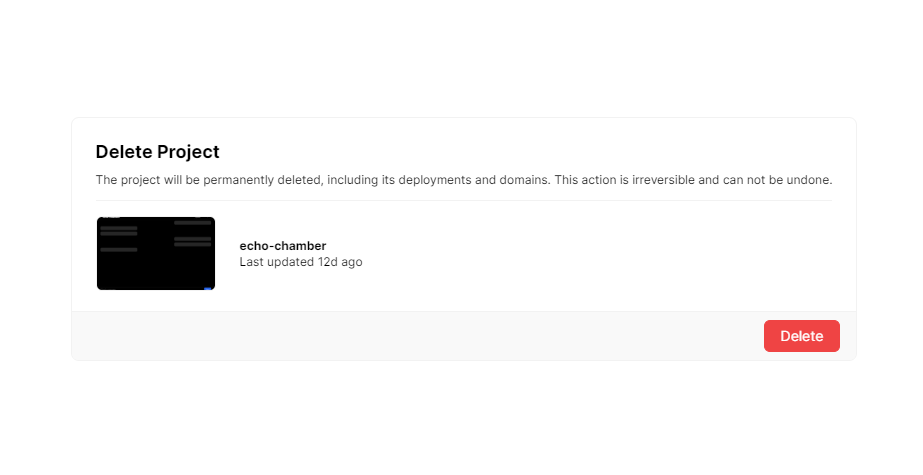
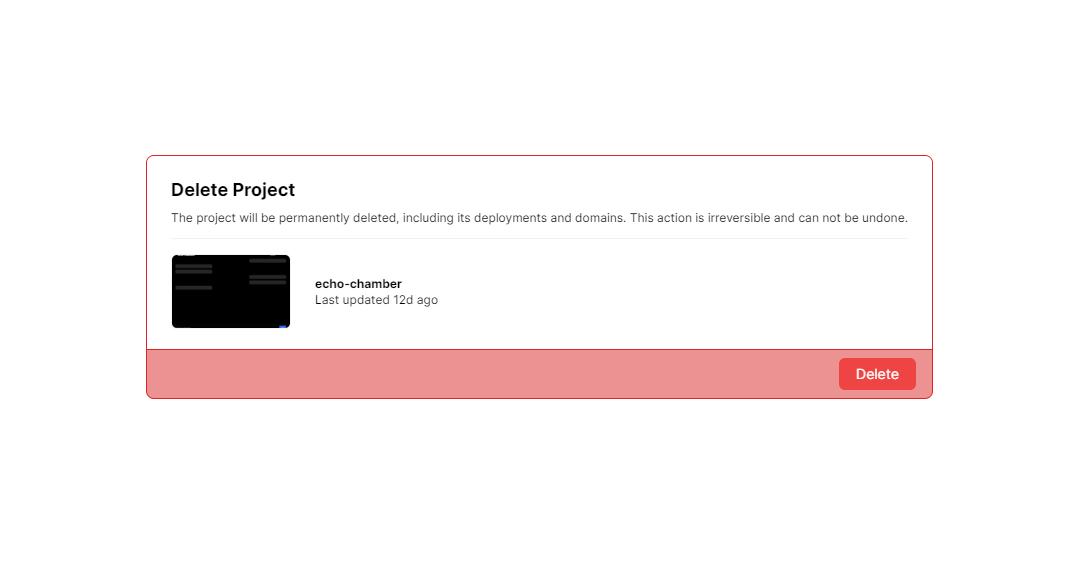
Changed example to used colored fieldset

Changed region(s): [[0.091, 0.4421, 0.9101, 0.7663], [0.091, 0.2653, 0.9101, 0.4126]]

diff --git a/src/routes/examples/delete-confirmation/+page.svelte b/src/routes/examples/delete-confirmation/+page.svelte
@@ -27,7 +27,7 @@
 </script>
 
 <Hero exclusionHeight={79} class="px-4">
-    <FieldSet>
+    <FieldSet color="error">
         <div class="p-2">
             <Text type="h6">Delete Project</Text>
             <Text type="small">The project will be permanently deleted, including its deployments and domains. This action is irreversible and can not be undone.</Text>
